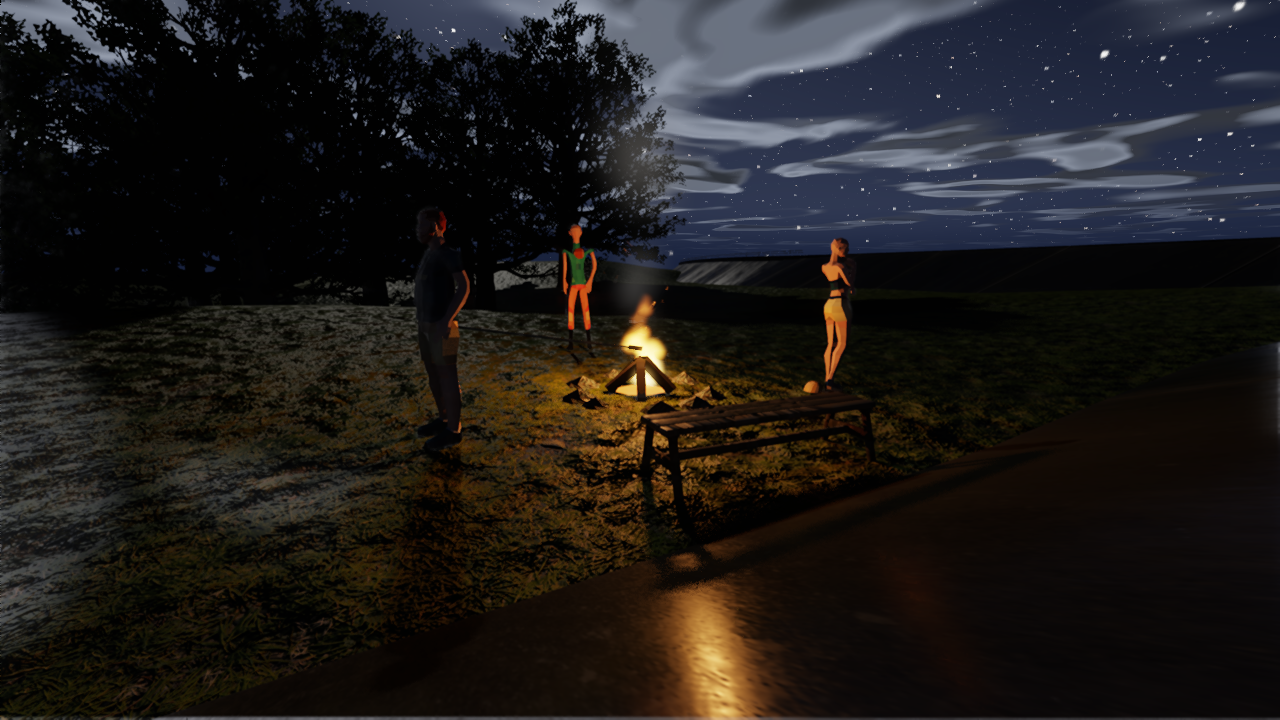
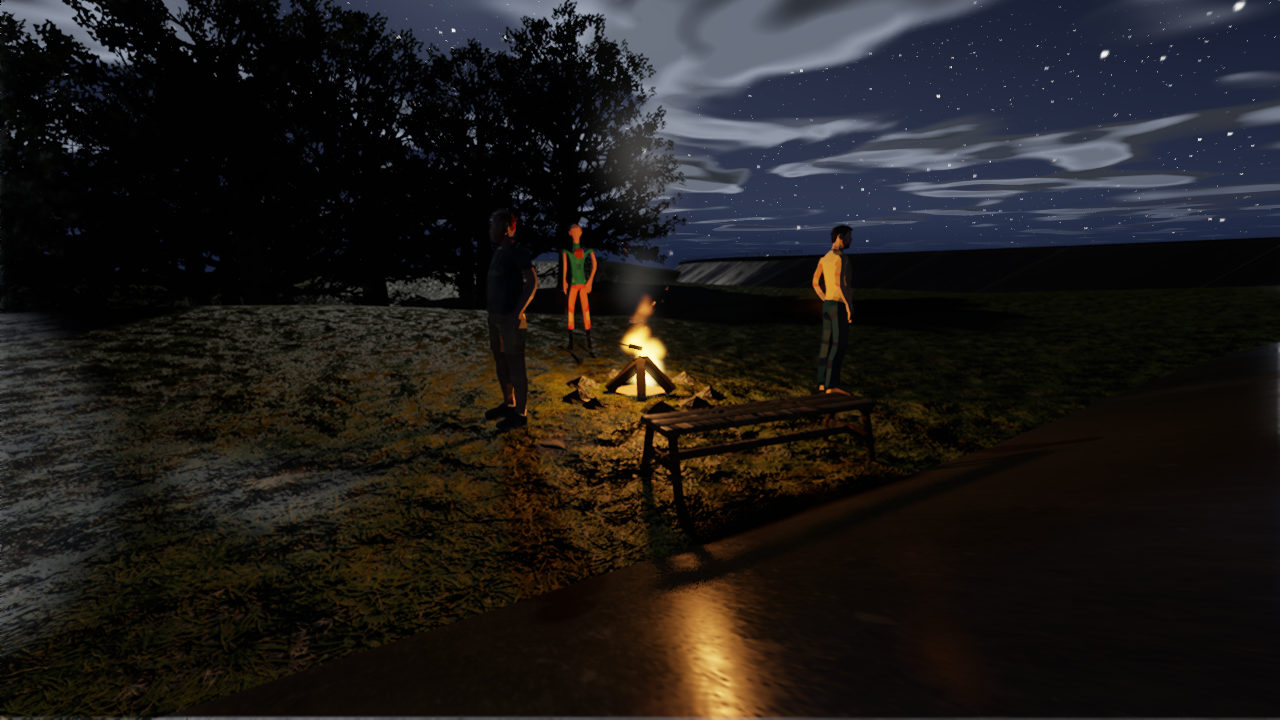
night: a real sunset, a roasting stick that is a stick, and T14-T16 to hold it
DUSK AND DAWN, from the eye gate. The 19:24 capture came out a flat milky pink
from east to west with white cauliflower on top and the sun 9 degrees up. Two
causes, both fixed in shaders/sky.frag, both gated so DAYLIGHT IS BIT-IDENTICAL
(lowSunK is exactly 0 whenever the sun is more than ~21 deg up, and sunDir.y is
the sine of the altitude, so midday's 0.88 is nowhere near it):

  * the dome carries ONE horizon colour in every direction, so it cannot burn
    on the sun's side and stay blue opposite it — which is what a sunset IS.
    An AZIMUTHAL burn term now mixes the low sky toward a reddened sun colour
    by how far the ray points at the sun's compass bearing, and the rest of the
    dome loses its daylight value as the light goes.
  * the cloud deck was lit as if by a noon sun. A beam reaching a cloud within
    20 deg of the horizon has crossed several airmasses: the body now goes warm
    and dim (lit x1.30/0.74/0.44, x0.42; shade x0.34) with the same lowSunK, one
    value shared by dome and deck (rule 4).

Also: 19:24 was the wrong hour to judge — it is golden hour, not sunset. The
dusk plate is now 20:06 (sun elev +0.028), and it reads as a sunset: golden
horizon, warm deck, the disc on the hills, the burn on the water and the road.
Dawn at 06:03 keeps a few stars still up over a cool hillside.

THE ROASTING STICK, verified in DAYLIGHT because night hid it. Two defects the
night plate could not show:
[…]

Changed region(s): [[0.3125, 0.3667, 0.4375, 0.6417], [0.625, 0.3056, 0.6875, 0.55], [0.3125, 0.3056, 0.4062, 0.3361]]

diff --git a/app/tod.cpp b/app/tod.cpp
@@ -482,6 +482,84 @@ bool runTodSelfTest() {
                "T13 sky snapshot enabled + sun overhead at midday (renderer-ready)");
     }
 
+    // ---- T14-T16: THE TWILIGHT COLLAPSE (W-NIGHT). Darkness must follow the
+    // SUN, not the clock. The defect this guards: the phase table reached the
+    // night look only at the MIDPOINT of the Night phase, so a sample with the
+    // sun 28 degrees below the horizon still rendered a 69%-dusk dome — bright
+    // cream, no stars, campfires invisible. Sampling by ELEVATION rather than
+    // by phase name is the whole point of these three. ----
+    {
+        auto domeLum = [](const TodSample& s) {
+            const float lz = 0.299f * s.sky.zenith[0] + 0.587f * s.sky.zenith[1]
+                           + 0.114f * s.sky.zenith[2];
+            const float lh = 0.299f * s.sky.horizon[0] + 0.587f * s.sky.horizon[1]
+                           + 0.114f * s.sky.horizon[2];
+            return 0.5f * (lz + lh);
+        };
+        // Walk the whole cycle and collect, for every sample, its elevation and
+        // its dome luminance. Then assert on the RELATION, not on any hour.
+        const int N = 720;
+        float lumAtNoon = 0.0f, worstDeepNight = 0.0f, brightestBelow = 0.0f;
+        float dimmestAbove10deg = 1e9f;
+        bool  keyDeadBelowHorizon = true, moonUpAtNight = true;
+        for (int i = 0; i < N; ++i) {
+            const TodSample s = tod.sampleAt((float)i / (float)N);
+            const float e = s.sunElevation;
+            const float L = domeLum(s);
+            if (e > 0.85f) lumAtNoon = std::max(lumAtNoon, L);
+            if (e < -0.35f) {                       // astronomical night and beyond
+                worstDeepNight = std::max(worstDeepNight, L);
+                // The directional key must be moonlight-or-less down here...
+                if (s.sky.sunLight > 0.08f) keyDeadBelowHorizon = false;
+                // ...and the luminary the sky draws must be the MOON, ABOVE the
+                // horizon (the host swings sunDir to the anti-solar point).
+                if (s.sky.moon < 0.9f || s.sky.sunDir[1] <= 0.0f) moonUpAtNight = false;
+            }
+            if (e < -0.02f) brightestBelow = std::max(brightestBelow, L);
+            if (e > 0.174f) dimmestAbove10deg = std::min(dimmestAbove10deg, L);
+        }
+        // The DUSK DESCENT, sampled by elevation: the dome luminance at each
+        // step down must be strictly lower than the step above it. Walk the
+        // second half of the day (sun falling) and bucket by elevation.
+        bool descentMonotone = true;
+        {
+            const float probes[] = { 0.30f, 0.15f, 0.05f, -0.02f, -0.08f,
+                                     -0.16f, -0.26f, -0.40f };
+            float prev = 1e9f;
+            for (float want : probes) {
+                // Find the falling-sun clock whose elevation is closest to want.
+                float bestT = 0.0f, bestErr = 1e9f;
+                for (int i = 0; i < N; ++i) {
+                    const float tt = (float)i / (float)N;
+                    const TodSample s = tod.sampleAt(tt);
+                    // falling side only: after solar noon
+                    if (tt < 0.5f * (cfg.dawnStart + cfg.nightStart)) continue;
+                    const float err = std::fabs(s.sunElevation - want);
+                    if (err < bestErr) { bestErr = err; bestT = tt; }
+                }
+                if (bestErr > 0.05f) continue;               // that elevation is not visited
+                const float L = domeLum(tod.sampleAt(bestT));
+                if (L >= prev) descentMonotone = false;
+                prev = L;
+            }
+        }
+        // T14: with the sun well below the horizon the dome is at most 2% of
+        // its midday luminance. (Measured after the fix: ~0.9%.)
+        tcheck(lumAtNoon > 0.05f && worstDeepNight < lumAtNoon * 0.02f,
+               "T14 sun below -20 deg -> the sky dome is DARK (<2% of midday)");
+        // T15: the dome gets DARKER at every step of the sunset, all the way
+        // down — and by the time the sun is 23 deg under it is at most a fifth
+        // of what it was at the horizon crossing. The old clock-driven blend
+        // failed this: it was still 69% dusk with the sun 28 deg below.
+        (void)brightestBelow; (void)dimmestAbove10deg;
+        tcheck(descentMonotone,
+               "T15 the dome dims monotonically as the sun sets, elevation by elevation");
+        // T16: below the horizon the directional key is moonlight, the sky
+        // draws the MOON, and it is up. Lighting, shadows and backdrop agree.
+        tcheck(keyDeadBelowHorizon && moonUpAtNight,
+               "T16 deep night: dim moon key, moon flag set, moon above horizon");
+    }
+
     x3::logInfo(std::string("tod: ") + std::to_string(t_pass) + "/" +
                 std::to_string(t_pass + t_fail) + " passed");
     return t_fail == 0;

diff --git a/app/campfire.cpp b/app/campfire.cpp
@@ -205,8 +205,14 @@ uint32_t Campfires::build(Scene& scene, x3::rhi::IRenderDevice& device,
         // Half-extents: the stick is kStickLen long along +Z at unit scale and
         // drawCharacters scales that basis to the hand-to-fire reach (rule 4:
         // kStickLen and that scale are one value).
-        x3::prims::PrimMesh pm = x3::prims::makeBox(0.011f, 0.011f, kStickLen * 0.5f,
-                                                    0, 0, 0, 1.0f);
+        // ORIGIN AT THE HAND END, not at the middle: the box spans z in
+        // [0, kStickLen] (centre offset +kStickLen/2). A centred box drawn at
+        // hand + Z*zl/2 put HALF the switch out behind the holder's back — a
+        // 2 m pole through his chest in the daylight verification shot. With
+        // the origin at the grip, "translate to the hand, scale Z to the reach"
+        // cannot produce anything but a stick that starts in the hand.
+        x3::prims::PrimMesh pm = x3::prims::makeBox(0.009f, 0.009f, kStickLen * 0.5f,
+                                                    0.0f, 0.0f, kStickLen * 0.5f, 1.0f);
         m_stickMesh = device.createMesh(pm.verts.data(), (uint32_t)pm.verts.size(),
                                         pm.index.data(), (uint32_t)pm.index.size());
         x3::prims::PrimMesh hd = x3::prims::makeBox(0.026f, 0.026f, 0.075f, 0, 0, 0, 1.0f);
@@ -502,8 +508,15 @@ void Campfires::spawnPeople(Fire& f, uint32_t idx, x3::rhi::IRenderDevice& devic
             pz = bench.z - f.towardRoadZ * 0.32f;
         } else {
             const float a = standAngles[standSlot % 3]; ++standSlot;
-            px = f.x + std::cos(a) * kPeopleR;
-            pz = f.z + std::sin(a) * kPeopleR;
+            // THE STICK HOLDER STANDS IN. At the ring radius his hand is 2.2 m
+            // from the flames and the switch drawn to reach them is a LANCE —
+            // verified in daylight (shots_wnight/06), where a 2.2 m pale pole
+            // out of a standing man's hip is the first thing the eye finds. At
+            // 1.55 m he is a step from the stones, which is where somebody
+            // roasting something actually stands, and the stick is a stick.
+            const float r = cast[i].stick ? 1.55f : kPeopleR;
+            px = f.x + std::cos(a) * r;
+            pz = f.z + std::sin(a) * r;
         }
         const float py = terrainHeightAtWorld(px, pz);
         p.body = std::make_unique<Player>();
@@ -603,8 +616,8 @@ void Campfires::drawCharacters(const x3::rhi::FrameContext& frame,
             float m[16];
             const float sk = zl / kStickLen;              // fit the switch to the reach
             const float Zs[3] = { Z[0] * sk, Z[1] * sk, Z[2] * sk };
-            const float mid[3] = { hx + Z[0]*zl*0.5f, hy + Z[1]*zl*0.5f, hz + Z[2]*zl*0.5f };
-            basisM(X, Y, Zs, mid, m);
+            const float grip[3] = { hx, hy, hz };         // the mesh starts at z=0
+            basisM(X, Y, Zs, grip, m);
             // A PEELED green switch, not bark: 0.30/0.20/0.11 is dark brown and
             // at night, against dark grass, it was invisible in the capture.
             const float stickCol[4]  = { 0.62f, 0.53f, 0.33f, 1.0f };
